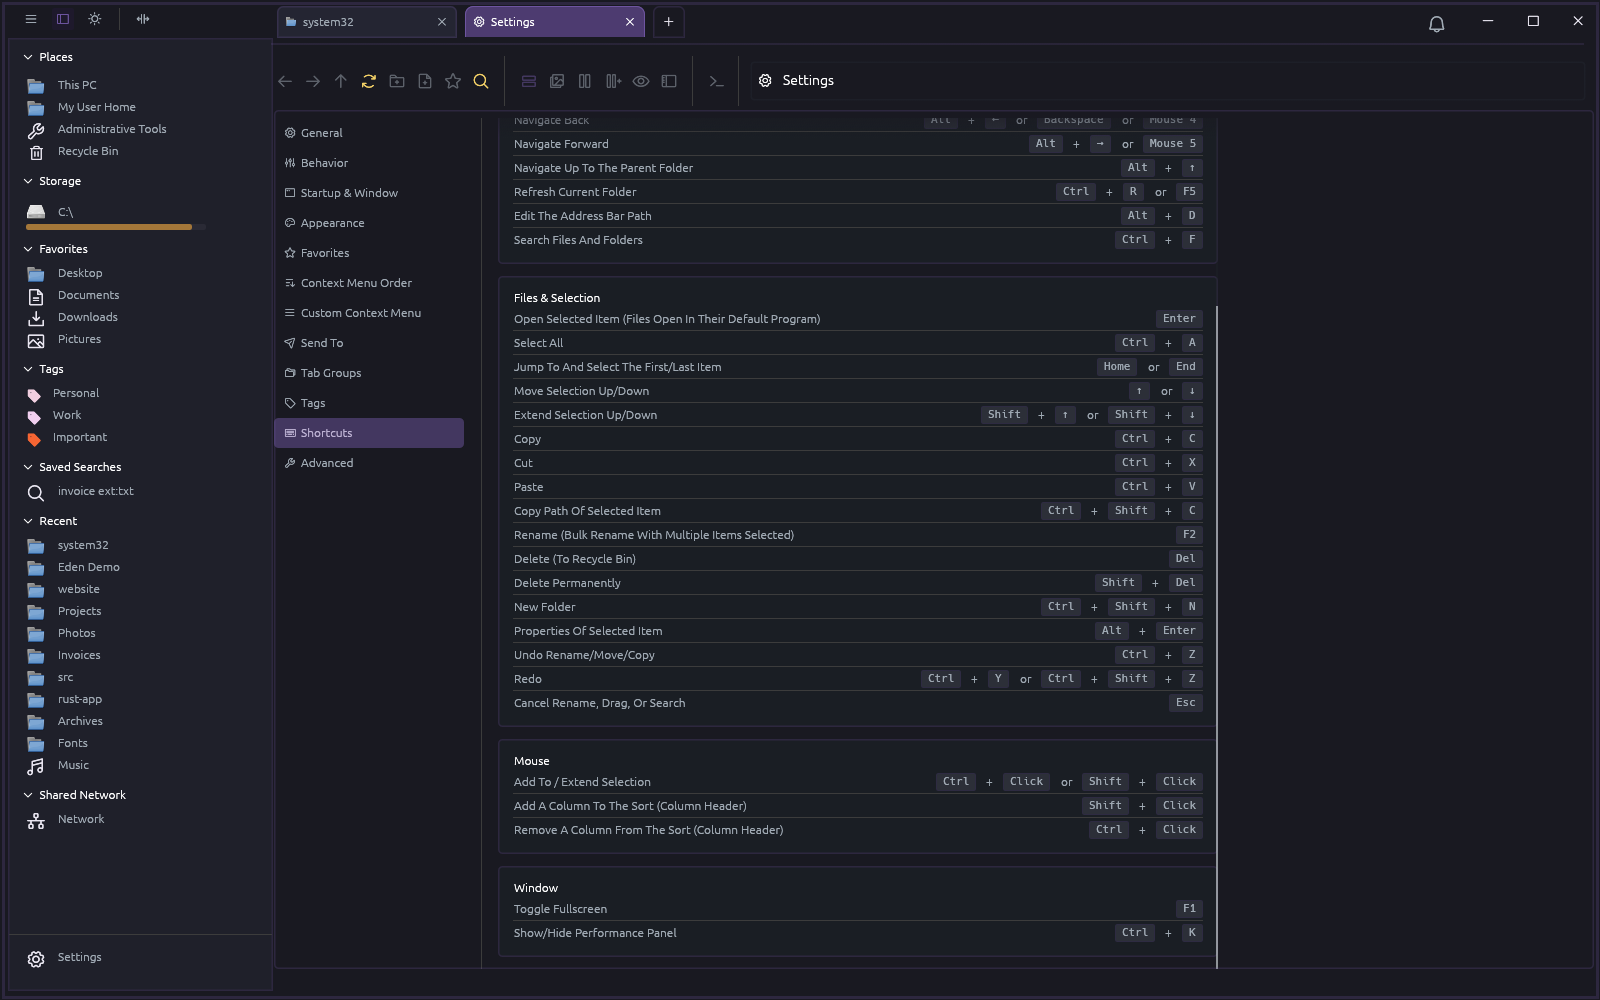
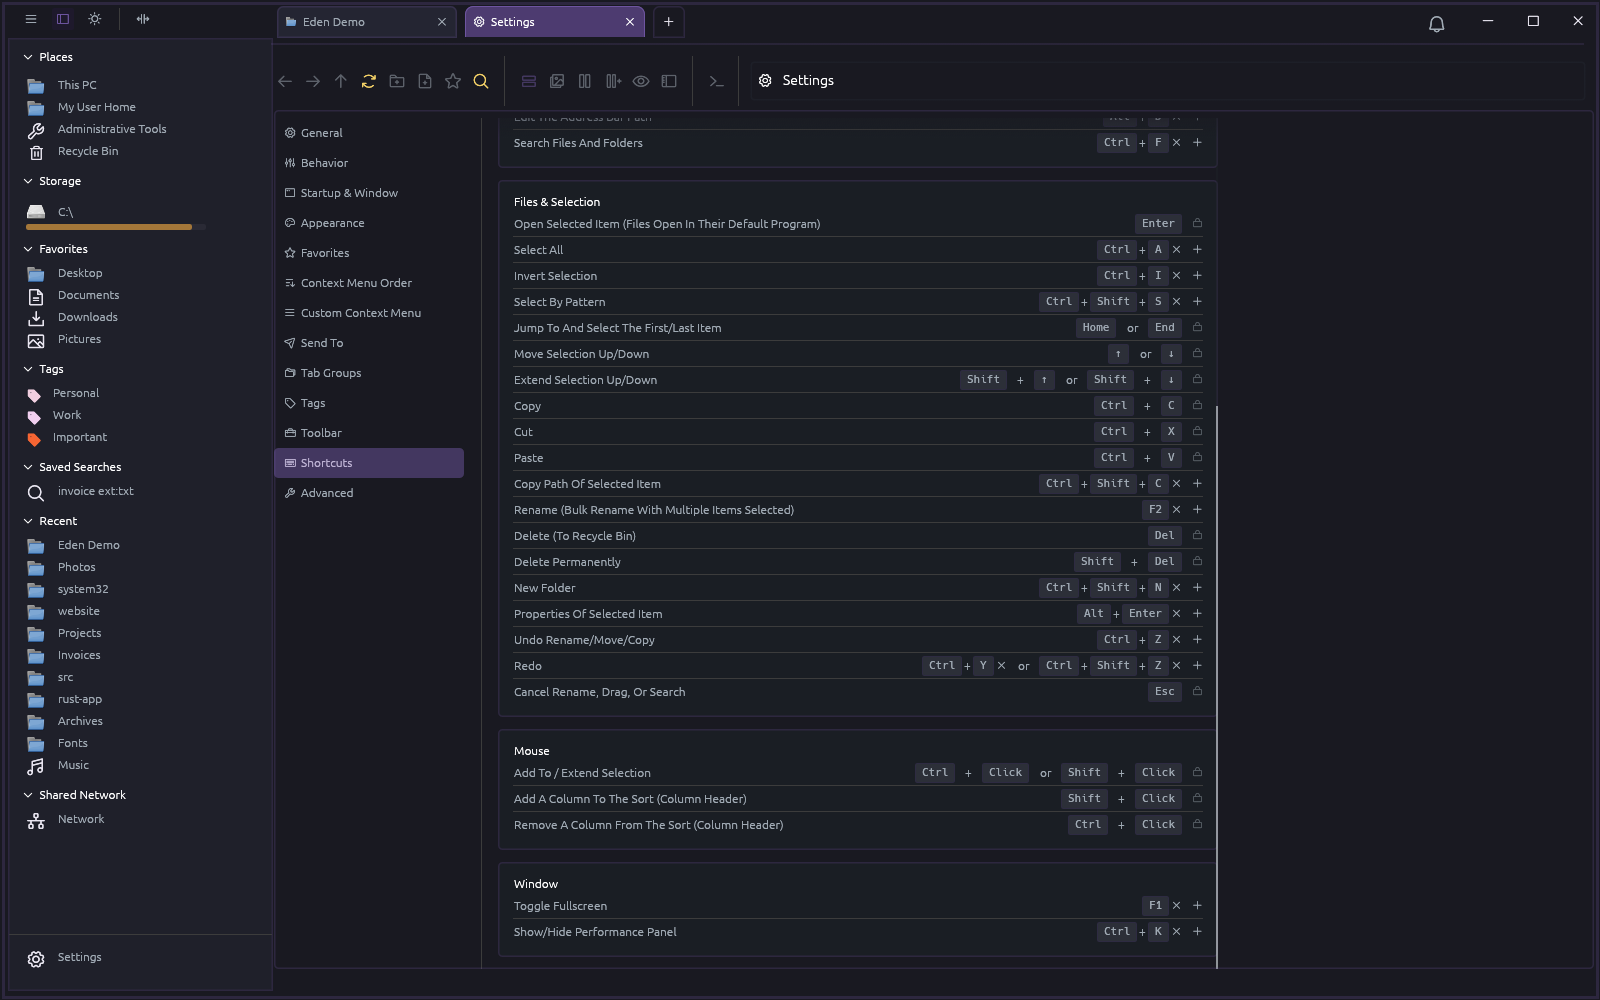
docs: Document the new file-manager features and update screenshots
README changelog, keyboard shortcuts, and FEATURES.md cover editable
shortcuts, the customizable toolbar, New File templates, selection
tools, status bar extras, hover previews, per-folder view memory,
remembered folder sizes, and portable mode; ROADMAP.md ticks them off.
Adds screenshots 48-56 and a selection/templates GIF, and refreshes the
Settings > Shortcuts and Advanced screenshots.

Claude-Session: https://claude.ai/code/session_01NnbUtrCJDbJrzn3g1Wvtm7

diff --git a/README.md b/README.md
@@ -121,7 +121,7 @@
 | ![Bulk rename](Screenshots/23-bulk-rename.png) | ![Settings - Shortcuts](Screenshots/39-settings-shortcuts.png) |
 | ![Performance panel](Screenshots/44-performance-panel.png) | ![Benchmark This Folder results](Screenshots/45-performance-benchmark.png) |
 
-See the [Screenshots folder](Screenshots/README.md) for all 47 feature screenshots, plus short GIFs of the [Performance panel benchmark](Screenshots/performance-benchmark.gif) and the [animated GIF preview controls](Screenshots/gif-preview-controls.gif).
+See the [Screenshots folder](Screenshots/README.md) for all 56 feature screenshots, plus short GIFs of the [Performance panel benchmark](Screenshots/performance-benchmark.gif), the [animated GIF preview controls](Screenshots/gif-preview-controls.gif), and [selection tools and New File templates](Screenshots/selection-and-templates.gif).
 
 ## Star History
 
@@ -134,7 +134,7 @@ See the [Screenshots folder](Screenshots/README.md) for all 47 feature screensho
 </a>
 
 ## Keyboard Shortcuts
-The full list, including mouse shortcuts, is also available in the app under **Settings > Shortcuts**.
+The full list, including mouse shortcuts, is also available in the app under **Settings > Shortcuts**, where most of them can be changed (add, remove, or reset key combinations). The defaults are:
 
 - F1 - Toggle fullscreen
 - Ctrl+Shift+C - Copy selected path
@@ -158,6 +158,8 @@ The full list, including mouse shortcuts, is also available in the app under **S
 - Ctrl+Z - Undo the last rename/move/copy
 - Ctrl+Y (Ctrl+Shift+Z) - Redo
 - Ctrl+K - Show/hide the Performance panel
+- Ctrl+I - Invert selection
+- Ctrl+Shift+S - Select by pattern (wildcards such as `*.jpg; *.png`)
 
 
 See [ROADMAP.md](ROADMAP.md) for planned and suggested features.
@@ -320,6 +322,15 @@ See [ROADMAP.md](ROADMAP.md) for planned and suggested features.
 - [x] **Performance panel** - live folder load, folder size scan, frame time, FPS, and memory metrics, plus Benchmark This Folder with min/avg/max per listing method and Copy Results (Settings > Advanced, or Ctrl+K)
 - [x] **Media controls for animated GIFs** - previewing an animated GIF now shows a seek bar plus Play/Pause, Stop (rewind to the first frame), Previous Frame and Next Frame buttons (stepping pauses playback), current/total time to a tenth of a second, and "Frame N / M"; clicking the image also plays/pauses
 - [x] **Preview pane stays on screen in Details + Preview** - a wide details table no longer pushes the right edge of the preview pane (and its media controls) out of view, and the Performance panel shows "No Subfolders" for a folder with nothing to size instead of "Open a folder to measure"
+- [x] **Editable keyboard shortcuts** - Settings > Shortcuts lets you add a key combination to any app shortcut (press it), remove one, or reset a row or all of them; a combination already in use moves to the new action, and keys Windows or text editing need (Ctrl+C/X/V, Delete, Enter, arrows, Esc) are locked
+- [x] **Customizable toolbar** - Settings > Toolbar: reorder, remove, and add toolbar buttons and separators, with a live preview and Reset To Default; Select All, Invert Selection, Select By Pattern, Performance Panel, and Settings can be added as buttons
+- [x] **New File templates** - right-click > New File offers Text (.txt), Markdown (.md), Word (.docx), and Excel (.xlsx) files (valid, ready-to-open documents), plus every file in your templates folder (Settings > Behavior > New File Templates Folder; Open Templates Folder is in the same menu)
+- [x] **Selection tools** - Invert Selection (Ctrl+I), Select By Pattern (Ctrl+Shift+S: wildcard patterns with a live match count, Select / Add To Selection / Deselect), both in the background right-click menu, plus selection checkboxes on Gallery tiles like the Details view's checkbox column
+- [x] **Status bar extras** - free space on the current drive, and while type-to-filter is active, a chip showing the filter, how many items it leaves, and a button to clear it (alongside the existing selection count and size)
+- [x] **Hover previews** - in Details view, hovering an image or video shows a thumbnail tooltip (Settings > Behavior > Hover Previews For Images And Videos)
+- [x] **Better per-folder view memory** - each folder's view mode, sort, and columns are now compared against your own defaults (not the built-in ones), matched case-insensitively, saved within two seconds of a change, and capped at 5,000 folders; the View menu adds Reset Folder View and Use As Default View, Settings > Behavior > Remember View Per Folder turns it off, and Reset Data > Folder Views clears them
+- [x] **Remembered folder sizes** - calculated folder sizes are kept between sessions and shown immediately (with the in-progress hourglass while they're re-checked) instead of counting up from zero (Settings > Behavior > Remember Folder Sizes; Reset Data > Folder Size Cache)
+- [x] **Portable mode** - Settings > Advanced > Portable Mode keeps all settings and data in an `EdenExplorerData` folder next to `EdenExplorer.exe` (copying your current data there, or back when turned off); creating that folder by hand before the first launch also makes the app portable
 - [x] **Consistent Title Case** - buttons, menu items, headings, setting labels, and short tooltips all use Title Case; longer explanations stay as normal sentences
 
 

diff --git a/ROADMAP.md b/ROADMAP.md
@@ -2,7 +2,7 @@
 
 Ideas for future features, gathered from other file managers (Mac Finder, ForkLift, Path Finder, Nautilus, Dolphin, Thunar, File Pilot, Files App, FileCommander, Directory Opus, QTTabBar, Total Commander, TeraCopy) and disk space analyzers (WinDirStat, RidNacs, WizTree, TreeSize, DaisyDisk, Filelight).
 
-Nothing here is scheduled yet. Items already in the app (tabs, split view, tags, bulk rename, previews, checksums, zip, Everything search, custom context menu, undo/redo, Performance panel, ...) are left out.
+Items marked [x] have been implemented (see the README changelog); the rest aren't scheduled yet. Items already in the app (tabs, split view, tags, bulk rename, previews, checksums, zip, Everything search, custom context menu, undo/redo, Performance panel, ...) are left out.
 
 **Effort:** **S** = a day or two · **M** = about a week · **L** = a larger project
 
@@ -51,13 +51,13 @@ Nothing here is scheduled yet. Items already in the app (tabs, split view, tags,
 - [ ] **Up to 4 panes**, plus a synchronized browsing mode for comparing two folders (Directory Opus, Total Commander) (M–L)
 - [ ] **Folder compare**: highlight files that differ, are newer, or exist on only one side, then sync left to right (Directory Opus, FreeFileSync) (L)
 - [ ] **Flat view**: every file in all subfolders as one list (Directory Opus) (S)
-- [ ] **Per-folder view memory**: each folder remembers its own view mode, sort, and columns (Finder, Dolphin, Directory Opus) (S)
+- [x] **Per-folder view memory**: each folder remembers its own view mode, sort, and columns (Finder, Dolphin, Directory Opus) (S)
 - [ ] **Filter bar options**: wildcards, regex, "only images/docs" chips, hide matches (Dolphin, Directory Opus) (S)
 - [ ] **Spring-loaded folders**: hovering over a folder while dragging opens it (Finder) (S)
 - [ ] **More sidebar places**: pinned network locations, cloud folders, WSL distros, mounted ISOs (Nautilus, Dolphin) (S)
 - [ ] **Workspaces / layouts**: save a whole window (tabs, split, sidebar state) and restore it, one step beyond Tab Groups (Directory Opus "Layouts") (M)
 - [ ] **Breadcrumb dropdowns** on the `>` arrows listing sibling folders (Explorer, Path Finder) (S)
-- [ ] **Customizable toolbar**: add, remove, and reorder buttons (Directory Opus, QTTabBar) (M)
+- [x] **Customizable toolbar**: add, remove, and reorder buttons (Directory Opus, QTTabBar) (M)
 
 ## 3. File Operations
 
@@ -65,7 +65,7 @@ Nothing here is scheduled yet. Items already in the app (tabs, split view, tags,
 - [ ] **Verify after copy** using the existing checksums (TeraCopy) (S)
 - [ ] **Batch conflict rules**: Apply To All, Keep Both, Replace Only If Newer/Larger (M)
 - [ ] **Copy To / Move To** with a folder picker and recent destinations (Explorer, Path Finder) (S)
-- [ ] **New File from templates**: .txt, .md, .docx, or a user templates folder (Nautilus, Dolphin, Files App) (S)
+- [x] **New File from templates**: .txt, .md, .docx, .xlsx, or a user templates folder (Nautilus, Dolphin, Files App) (S)
 - [ ] **Extract archives** (zip, 7z, tar, gz, rar via 7-Zip): Extract Here, Extract to Folder, and browsing into an archive like a folder (Files App, Dolphin, Directory Opus) (M–L)
 - [ ] **Split and join large files** (Total Commander) (S)
 - [ ] **Secure delete / shred** (FileCommander) (S)
@@ -93,16 +93,16 @@ Nothing here is scheduled yet. Items already in the app (tabs, split view, tags,
 - [ ] **Remote locations**: FTP, SFTP, WebDAV, and S3 you can browse like folders (ForkLift, FileCommander, Directory Opus) (L)
 - [ ] **WSL filesystem browsing** (`\\wsl$`) in the sidebar (S)
 - [ ] **Scripting and macros**: user scripts (Rhai or Lua) with access to the selection, bound to buttons or shortcuts (Directory Opus, Total Commander) (L)
-- [ ] **Editable keyboard shortcuts**: make the read-only Settings > Shortcuts page remappable (Directory Opus, File Pilot) (M)
-- [ ] **Portable mode**: keep settings next to the .exe (Total Commander) (S)
-- [ ] **Persistent folder size cache** so large folders show sizes instantly on the next visit (S)
+- [x] **Editable keyboard shortcuts**: make the read-only Settings > Shortcuts page remappable (Directory Opus, File Pilot) (M)
+- [x] **Portable mode**: keep settings next to the .exe (Total Commander) (S)
+- [x] **Persistent folder size cache** so large folders show sizes instantly on the next visit (S)
 - [ ] **Session restore after a crash or restart**, including split view and scroll position (S)
 
 ## 6. Quality of Life
 
-- [ ] **Hover preview tooltips** for images and videos (QTTabBar) (S)
-- [ ] **Checkbox selection mode, Invert Selection, and Select by Pattern** (`*.jpg`) (Explorer, Directory Opus) (S)
-- [ ] **Status bar extras**: selection size, free space, active filter indicator (S)
+- [x] **Hover preview tooltips** for images and videos (QTTabBar) (S)
+- [x] **Checkbox selection mode, Invert Selection, and Select by Pattern** (`*.jpg`) (Explorer, Directory Opus) (S)
+- [x] **Status bar extras**: selection size, free space, active filter indicator (S)
 - [ ] **Drive health**: SMART status and temperature in This PC (M)
 - [ ] **Accessibility**: high-contrast theme, UI scaling slider, screen-reader labels (M)
 - [ ] **Update check** against GitHub Releases (notify only) (S)

diff --git a/Screenshots/README.md b/Screenshots/README.md
@@ -20,6 +20,12 @@ Pressing Ctrl+K to open the panel, then choosing 10 runs and clicking Benchmark 
 
 Playing, pausing, stepping forward and back a frame, dragging the seek bar, stopping (back to frame 1), and playing again.
 
+## Selection Tools And New File Templates
+
+![Selection tools and New File templates](selection-and-templates.gif)
+
+Select By Pattern (Ctrl+Shift+S) selecting `*.docx; *.txt`, Invert Selection (Ctrl+I), then right-click > New File > Excel Workbook (.xlsx), which goes straight into rename.
+
 ## Features
 
 ### Details view - tagged folders are tinted by tag color, with a Tags column showing every tag as a chip
@@ -174,11 +180,11 @@ Playing, pausing, stepping forward and back a frame, dragging the seek bar, stop
 
 ![Settings - Tags](38-settings-tags.png)
 
-### Settings - Shortcuts
+### Settings - Shortcuts, where most shortcuts can be changed: + adds a key combination, × removes one, and locked rows are fixed
 
 ![Settings - Shortcuts](39-settings-shortcuts.png)
 
-### Settings - Advanced, with Reset Settings, Export/Import Settings, the Reset Data card, and Show Performance Panel
+### Settings - Advanced, with Reset Settings, Export/Import Settings, the Reset Data card (now including Folder Views and Folder Size Cache), Portable Mode switched on, and Show Performance Panel
 
 ![Settings - Advanced](40-settings-advanced.png)
 
@@ -202,10 +208,46 @@ Playing, pausing, stepping forward and back a frame, dragging the seek bar, stop
 
 ![Benchmark This Folder results](45-performance-benchmark.png)
 
-### Settings - Shortcuts, Window group with the new Show/Hide Performance Panel shortcut
+### Settings - Shortcuts, the Window group with the Show/Hide Performance Panel shortcut
 
 ![Settings - Shortcuts, Performance Panel shortcut](46-settings-shortcuts-performance.png)
 
 ### Animated GIF preview with media controls - seek bar, Play/Pause, Stop, Previous/Next Frame, current/total time, and the frame number
 
 ![Animated GIF preview controls](47-gif-preview-controls.png)
+
+### Status bar - free space on the drive, and the active type-to-filter ("new", 2 of 9 items) with a button to clear it
+
+![Status bar with filter and free space](48-status-bar-filter-free-space.png)
+
+### Right-click > New File - built-in Text, Markdown, Word, and Excel templates, plus Open Templates Folder (files in that folder are listed too); also Select All, Invert Selection, and Select By Pattern
+
+![New File templates](49-new-file-templates.png)
+
+### Select By Pattern (Ctrl+Shift+S) - wildcard patterns with a live match count
+
+![Select By Pattern](50-select-by-pattern.png)
+
+### Gallery selection checkboxes - click a tile's checkbox to add or remove it without Ctrl
+
+![Gallery selection checkboxes](51-gallery-selection-checkboxes.png)
+
+### Hover preview - hovering an image or video in Details view shows its thumbnail
+
+![Hover preview](52-hover-preview.png)
+
+### View menu - Reset Folder View and Use As Default View for the per-folder view memory
+
+![View menu folder view options](53-view-menu-folder-view.png)
+
+### Settings - Toolbar, with a live preview; here Invert Selection, Select By Pattern, and Settings were added
+
+![Settings - Toolbar](54-settings-toolbar.png)
+
+### Settings - Shortcuts after adding Ctrl+E to New Tab (customized rows get a • and a reset button)
+
+![Settings - Shortcuts editing](55-settings-shortcuts-editing.png)
+
+### Settings - Behavior, with Remember View Per Folder, Remember Folder Sizes, Hover Previews, and the New File Templates Folder
+
+![Settings - Behavior](56-settings-behavior.png)

diff --git a/FEATURES.md b/FEATURES.md
@@ -74,6 +74,13 @@
   <li><b>Six view layouts</b> - Details, Gallery, Columns, Columns + Preview, Preview, and Details + Preview</li>
   <li><b>Preview pane</b> for images, Markdown with Mermaid diagrams, code, PDF, Office, fonts, archives, audio, and video</li>
   <li><b>Animated GIF media controls</b> in the preview pane - Play/Pause, Stop, previous/next frame, a frame seek bar, and current/total time with the frame number</li>
+  <li><b>New File templates</b> - Text, Markdown, Word, and Excel documents, plus your own templates folder</li>
+  <li><b>Selection tools</b> - Invert Selection, Select By Pattern (wildcards), and checkboxes in Details and Gallery</li>
+  <li><b>Hover previews</b> for images and videos in Details view</li>
+  <li><b>Customizable toolbar</b> - reorder, add, and remove buttons and separators</li>
+  <li><b>Editable keyboard shortcuts</b> in Settings > Shortcuts</li>
+  <li><b>Per-folder view memory</b> with Reset Folder View and Use As Default View</li>
+  <li><b>Status bar</b> with selection size, drive free space, and the active filter</li>
 </ul>
 
 <h3>File Operations</h3>
@@ -108,7 +115,8 @@
   <li><b>Benchmark This Folder</b> - times the app's <code>NtQueryDirectoryFile</code> listing against Rust's <code>read_dir</code> and <code>read_dir</code> + per-file metadata over 3/5/10 runs, with min/avg/max, items/sec, and Copy Results</li>
   <li><b>Windows API integration</b> for native operating system functionality</li>
   <li><b>Custom executable icon and file association</b></li>
-  <li><b>Persistent settings</b> using efficient binary cache</li>
+  <li><b>Persistent settings</b> using efficient binary cache, with an optional <b>portable mode</b> that keeps them next to the exe</li>
+  <li><b>Remembered folder sizes</b> between sessions, shown instantly on the next visit</li>
 </ul>
 
 <h3>Security</h3>
